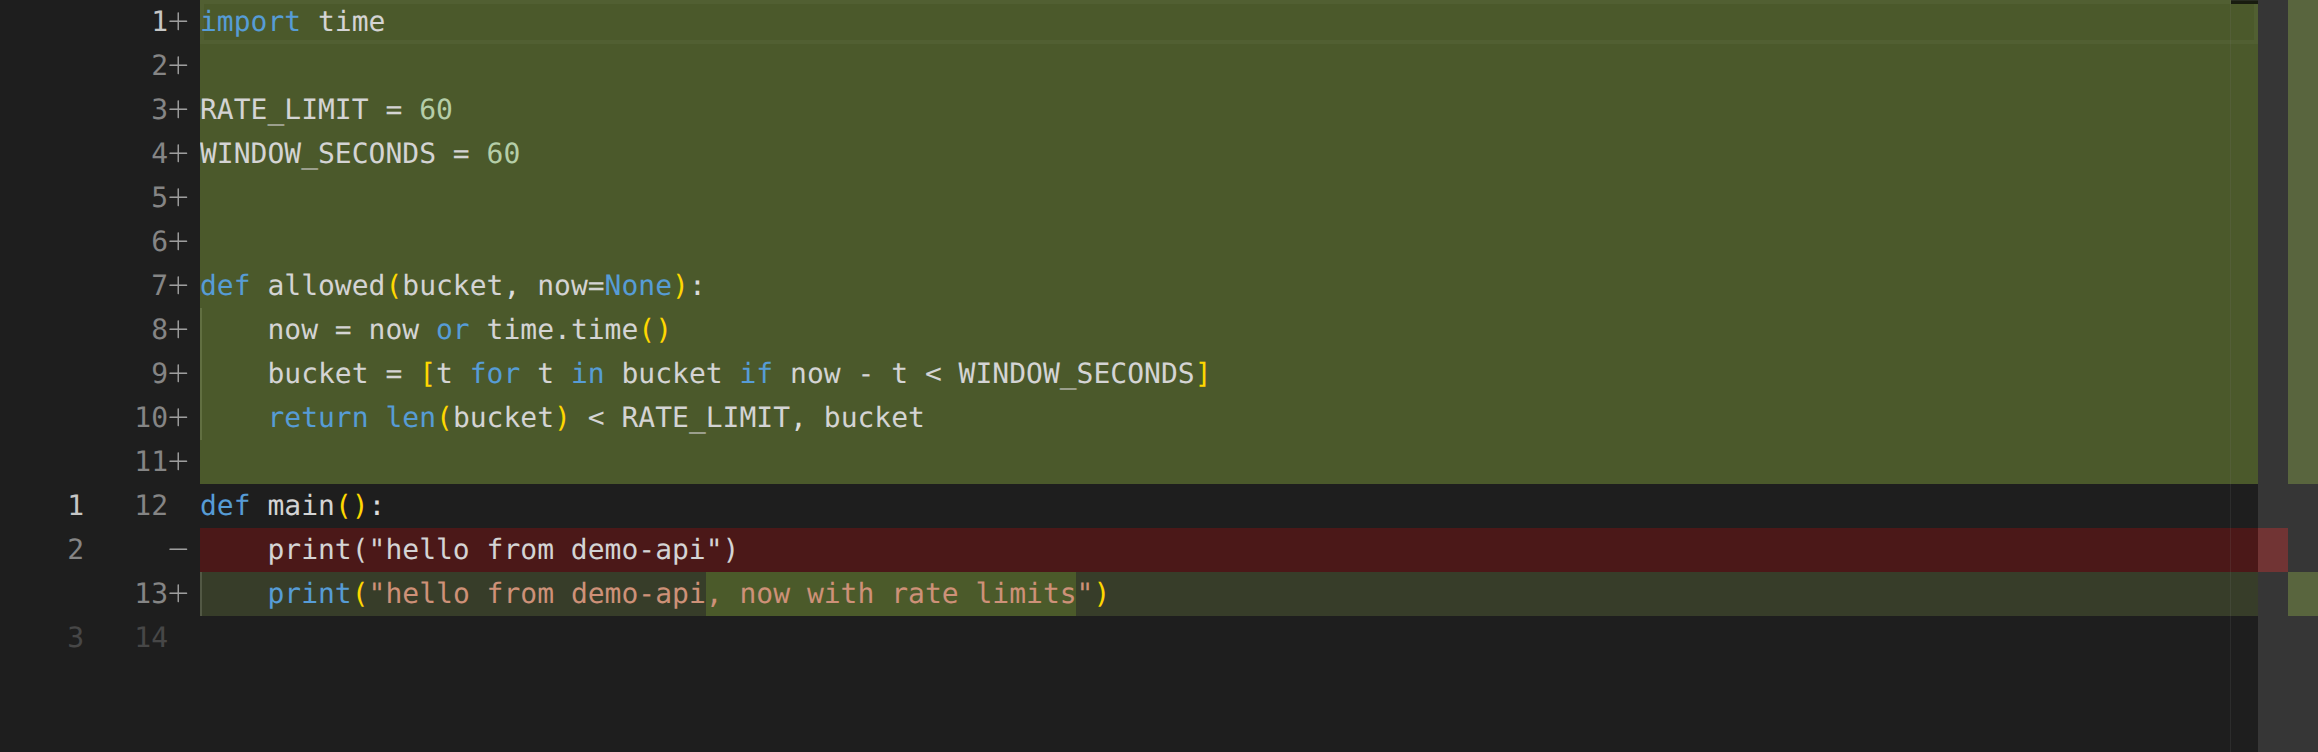
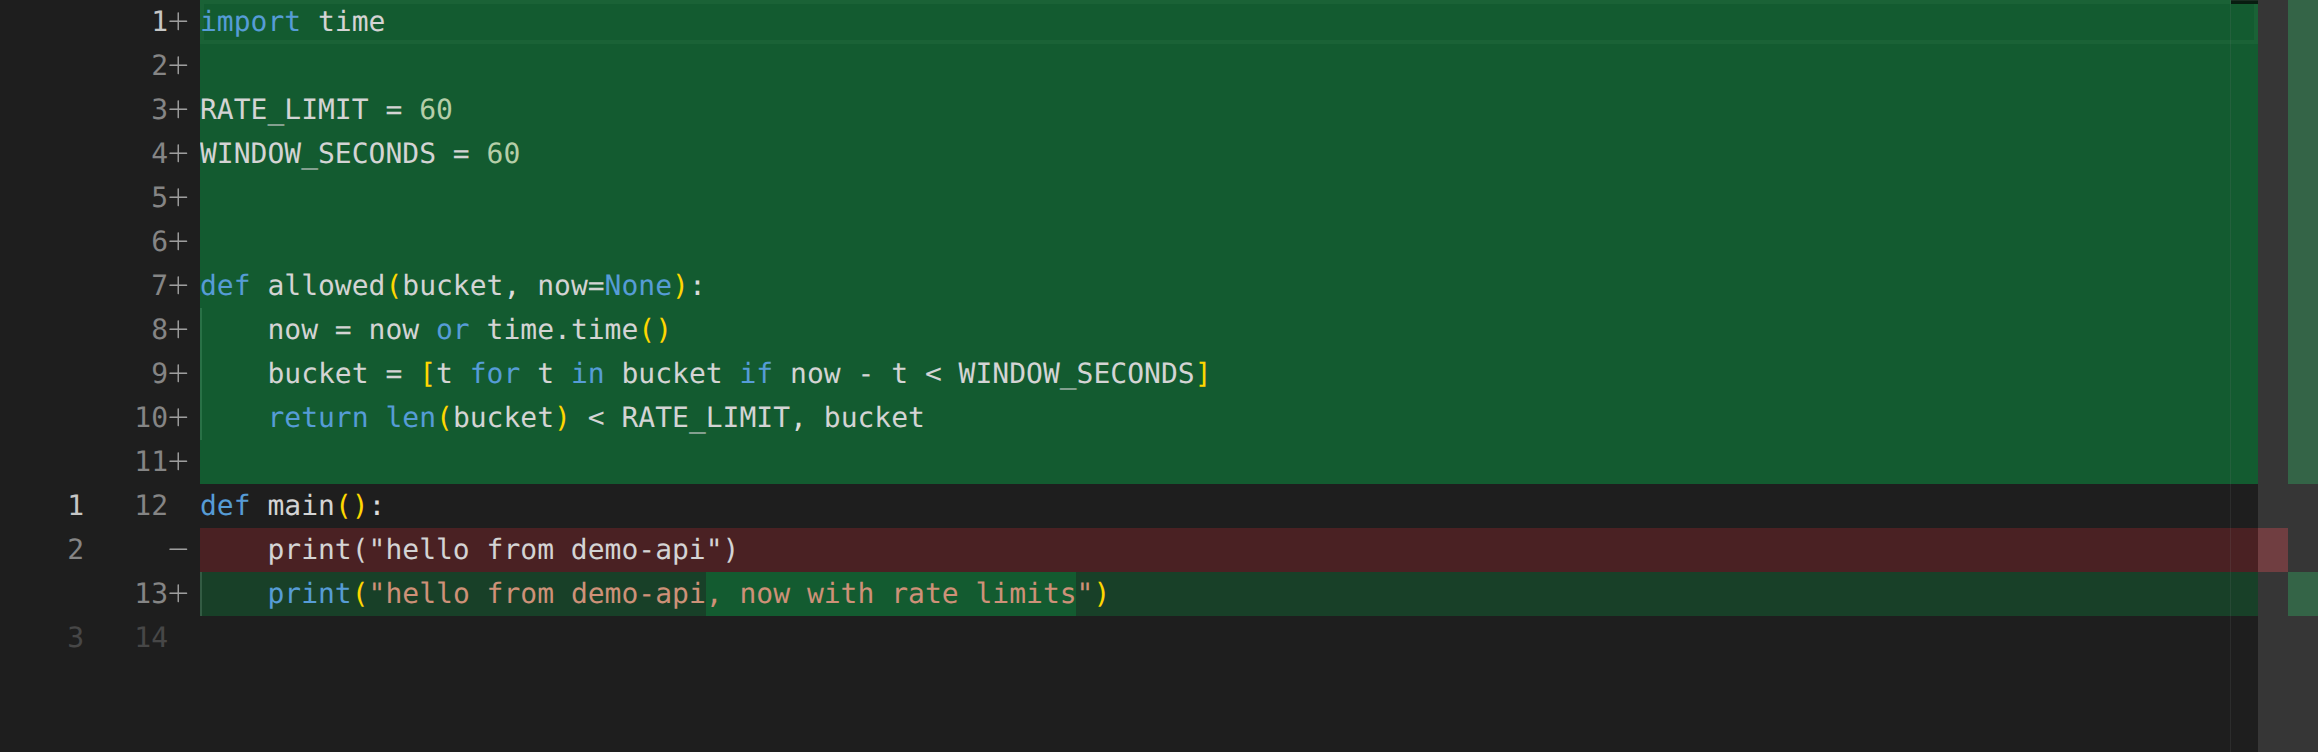
Shade the browser editor's diff view with the same green and red the changed-files pane uses, as translucent backgrounds taken from the theme tokens, and retake the diff screenshot in the docs.

diff --git a/crates/dux-web/web/src/lib/monacoSetup.ts b/crates/dux-web/web/src/lib/monacoSetup.ts
@@ -145,6 +145,36 @@ export const DIFF_THEME_PROPS = {
   beforeMount: defineDiffTheme,
 } as const
 
+// The theme the editor's diff mode renders under: vs-dark with the inserted
+// and removed shading taken from the same `--dux-added` and `--dux-deleted`
+// tokens, so a change is the same green and red here as in the changed-files
+// pane. Monaco requires these colours to be translucent so the code's own
+// highlighting shows through; 0x33 is the alpha Monaco's own defaults use. The
+// gutter and the overview ruler derive their colours from these four keys.
+// Defined before mount and exported only as a props pair, for the same reasons
+// as the patch viewer's theme above.
+const DIFF_EDITOR_THEME = "dux-diff-editor"
+const DIFF_EDITOR_ALPHA = "33"
+function defineDiffEditorTheme(): void {
+  const added = tokenHex("--dux-added", "00C950") + DIFF_EDITOR_ALPHA
+  const deleted = tokenHex("--dux-deleted", "FB2C36") + DIFF_EDITOR_ALPHA
+  monaco.editor.defineTheme(DIFF_EDITOR_THEME, {
+    base: "vs-dark",
+    inherit: true,
+    rules: [],
+    colors: {
+      "diffEditor.insertedLineBackground": `#${added}`,
+      "diffEditor.insertedTextBackground": `#${added}`,
+      "diffEditor.removedLineBackground": `#${deleted}`,
+      "diffEditor.removedTextBackground": `#${deleted}`,
+    },
+  })
+}
+export const DIFF_EDITOR_THEME_PROPS = {
+  theme: DIFF_EDITOR_THEME,
+  beforeMount: defineDiffEditorTheme,
+} as const
+
 export { monaco }
 
 // The Monaco language id for a file path, from the grammars registered above.

diff --git a/crates/dux-web/web/src/components/DiffViewer.tsx b/crates/dux-web/web/src/components/DiffViewer.tsx
@@ -3,7 +3,7 @@ import { DiffEditor, type DiffOnMount } from "@monaco-editor/react"
 import type { editor as MonacoEditor, IDisposable } from "monaco-editor"
 // Importing the shared bootstrap wires Monaco's self-host (workers + bundled
 // instance) before DiffEditor mounts, and gives us the path→language helper.
-import { monacoLanguageForPath } from "@/lib/monacoSetup"
+import { DIFF_EDITOR_THEME_PROPS, monacoLanguageForPath } from "@/lib/monacoSetup"
 import { allDeleteDiffOptions } from "@/lib/diffPresentation"
 import { diffQuitEarly } from "@/lib/diffComputation"
 
@@ -103,8 +103,10 @@ export default function DiffViewer({
       )}
       <div className="min-h-0 flex-1">
         <DiffEditor
-          // The web UI is dark-only (main.tsx force-adds `.dark`), matching vs-dark.
-          theme="vs-dark"
+          // vs-dark with the added and removed shading from the dux tokens; see
+          // defineDiffEditorTheme. The web UI is dark-only (main.tsx
+          // force-adds `.dark`), matching vs-dark.
+          {...DIFF_EDITOR_THEME_PROPS}
           original={original}
           modified={modified}
           language={language}

diff --git a/crates/dux-web/web/src/components/DiffViewer.test.tsx b/crates/dux-web/web/src/components/DiffViewer.test.tsx
@@ -7,6 +7,7 @@ import { afterEach, describe, expect, it, vi } from "vitest"
 // `onMount` a fake shaped like the one narrow read this component makes.
 vi.mock("@/lib/monacoSetup", () => ({
   monacoLanguageForPath: () => "plaintext",
+  DIFF_EDITOR_THEME_PROPS: {},
   monaco: {},
 }))
 
